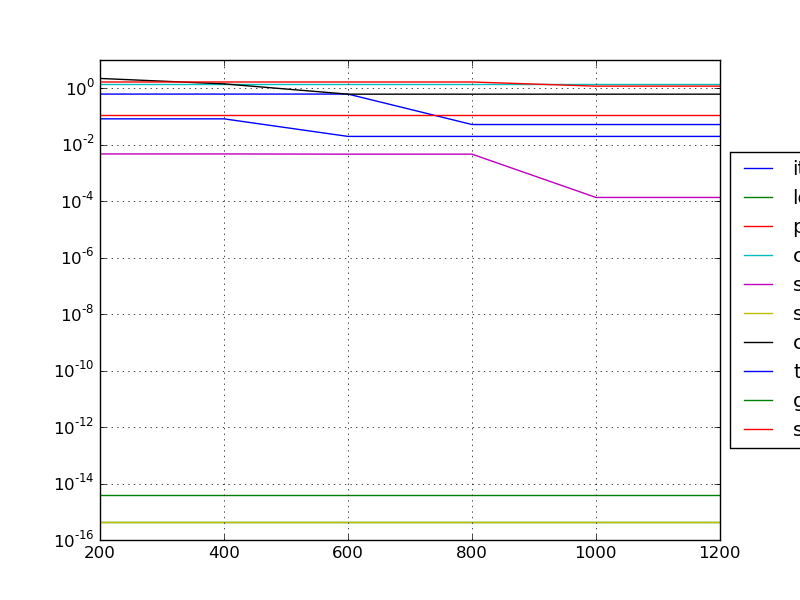
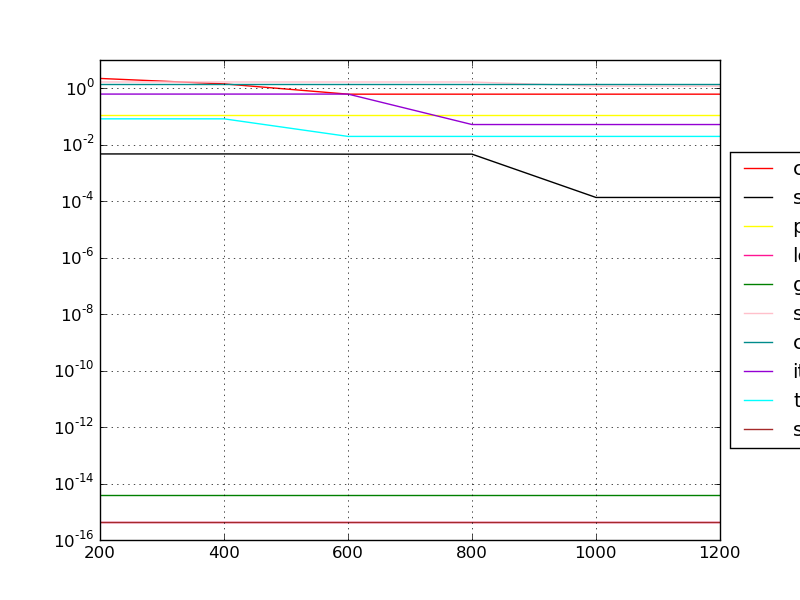
set a color cycle for fixed colros

diff --git a/Bfo/Ackley/data_graphs.py b/Bfo/Ackley/data_graphs.py
@@ -1,1 +1,71 @@
-{"1": [[4.440892098500626e-16, 200], [4.440892098500626e-16, 400], [4.440892098500626e-16, 600], [4.440892098500626e-16, 800], [4.440892098500626e-16, 1000], [4.440892098500626e-16, 1200]], "10": [[2.222812662608931, 200], [1.4275001640393659, 400], [0.6164748111920173, 600], [0.6164748111920173, 800], [0.6164748111920173, 1000], [0.6164748111920173, 1200]], "2": [[3.9968028886505635e-15, 200], [3.9968028886505635e-15, 400], [3.9968028886505635e-15, 600], [3.9968028886505635e-15, 800], [3.9968028886505635e-15, 1000], [3.9968028886505635e-15, 1200]], "3": [[0.11480327298878068, 200], [0.11480327298878068, 400], [0.11480327298878068, 600], [0.11480327298878068, 800], [0.11480327298878068, 1000], [0.11480327298878068, 1200]], "4": [[1.6646822982399851, 200], [1.6646822982399851, 400], [1.6646822982399851, 600], [1.6646822982399851, 800], [1.184959989773827, 1000], [1.184959989773827, 1200]], "5": [[0.08243340751807127, 200], [0.08243340751807127, 400], [0.019671602801004884, 600], [0.019671602801004884, 800], [0.019671602801004884, 1000], [0.019671602801004884, 1200]], "6": [[0.6210874945618774, 200], [0.6210874945618774, 400], [0.6210874945618774, 600], [0.05182223730833302, 800], [0.05182223730833302, 1000], [0.05182223730833302, 1200]], "7": [[0.004708947564413979, 200], [0.004708947564413979, 400], [0.004626782199612212, 600], [0.004626782199612212, 800], [0.00013541901922708988, 1000], [0.00013541901922708988, 1200]], "8": [[1.3660576765934782, 200], [1.3660576765934782, 400], [1.3660576765934782, 600], [1.3660576765934782, 800], [1.3660576765934782, 1000], [1.3660576765934782, 1200]], "9": [[4.440892098500626e-16, 200], [4.440892098500626e-16, 400], [4.440892098500626e-16, 600], [4.440892098500626e-16, 800], [4.440892098500626e-16, 1000], [4.440892098500626e-16, 1200]]}
+{
+    "1": [
+        [4.440892098500626e-16, 200],
+        [4.440892098500626e-16, 400],
+        [4.440892098500626e-16, 600],
+        [4.440892098500626e-16, 800],
+        [4.440892098500626e-16, 1000],
+        [4.440892098500626e-16, 1200]],
+
+    "10": [[2.222812662608931, 200],
+           [1.4275001640393659, 400],
+           [0.6164748111920173, 600],
+           [0.6164748111920173, 800],
+           [0.6164748111920173, 1000],
+           [0.6164748111920173, 1200]],
+
+    "2": [[3.9968028886505635e-15, 200],
+          [3.9968028886505635e-15, 400],
+          [3.9968028886505635e-15, 600],
+          [3.9968028886505635e-15, 800],
+          [3.9968028886505635e-15, 1000],
+          [3.9968028886505635e-15, 1200]],
+
+    "3": [[0.11480327298878068, 200],
+          [0.11480327298878068, 400],
+          [0.11480327298878068, 600],
+          [0.11480327298878068, 800],
+          [0.11480327298878068, 1000],
+          [0.11480327298878068, 1200]],
+
+    "4": [[1.6646822982399851, 200],
+          [1.6646822982399851, 400],
+          [1.6646822982399851, 600],
+          [1.6646822982399851, 800],
+          [1.184959989773827, 1000],
+          [1.184959989773827, 1200]],
+
+    "5": [[0.08243340751807127, 200],
+          [0.08243340751807127, 400],
+          [0.019671602801004884, 600],
+          [0.019671602801004884, 800],
+          [0.019671602801004884, 1000],
+          [0.019671602801004884, 1200]],
+
+    "6": [[0.6210874945618774, 200],
+          [0.6210874945618774, 400],
+          [0.6210874945618774, 600],
+          [0.05182223730833302, 800],
+          [0.05182223730833302, 1000],
+          [0.05182223730833302, 1200]],
+
+    "7": [[0.004708947564413979, 200],
+          [0.004708947564413979, 400],
+          [0.004626782199612212, 600],
+          [0.004626782199612212, 800],
+          [0.00013541901922708988, 1000],
+          [0.00013541901922708988, 1200]],
+
+    "8": [[1.3660576765934782, 200],
+          [1.3660576765934782, 400],
+          [1.3660576765934782, 600],
+          [1.3660576765934782, 800],
+          [1.3660576765934782, 1000],
+          [1.3660576765934782, 1200]],
+
+    "9": [[4.440892098500626e-16, 200],
+          [4.440892098500626e-16, 400],
+          [4.440892098500626e-16, 600],
+          [4.440892098500626e-16, 800],
+          [4.440892098500626e-16, 1000],
+          [4.440892098500626e-16, 1200]]}

diff --git a/Bfo/Ackley/maps.py b/Bfo/Ackley/maps.py
@@ -91,14 +91,3 @@ def map_func(num, x, iteration_num):
         return sinusoidal(x)
     elif num == 10:
         return chebyshev(x, iteration_num)
-
-1:"logistic(x)"
-2:"gauss(x)"
-3:"piecewise(x)"
-4:"singer(x)"
-5:"tent(x)"
-6:"iterative(x)"
-7:"sine(x)"
-8:"circle(x)"
-9:"sinusoidal(x)"
-10:"chebyshev(x, iteration_num)"
